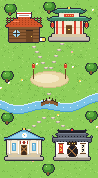
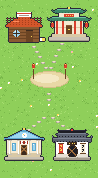
Zest Town: flowing river, trees in the wind, shorter signs, traditional characters, speech bubble on top
Claude-Session: https://claude.ai/code/session_01RoXuvLnNyq1kjKT87pkQTh

diff --git a/app.js b/app.js
@@ -1,10 +1,10 @@
-import { createClient } from "./vendor/supabase.js?v=53";
-import { FRUITS, HOST_AVATARS, SPECIAL_AVATARS, BACKGROUNDS, fruitSvg, fruitInfo, levelFor, progress, XP_SESSION, XP_STREAK, XP_BOOTCAMP } from "./fruits.js?v=53";
-import { COUNTRIES } from "./countries.js?v=53";
+import { createClient } from "./vendor/supabase.js?v=54";
+import { FRUITS, HOST_AVATARS, SPECIAL_AVATARS, BACKGROUNDS, fruitSvg, fruitInfo, levelFor, progress, XP_SESSION, XP_STREAK, XP_BOOTCAMP } from "./fruits.js?v=54";
+import { COUNTRIES } from "./countries.js?v=54";
 const XP_HONGBAO = 30;
 const MEMBER_CODE = "MZCLUB_8634D";                    // 50% off materials in the shop (Antoine, 24 Oct 2026)
 const SHOP_URL = "https://www.mandarinzest.com/shop";
-import { STICKERS, STICKER_PAGES, MYSTERY_STICKERS, stickerInfo, stickerSvg, stickerForBootcamp } from "./stickers.js?v=53";
+import { STICKERS, STICKER_PAGES, MYSTERY_STICKERS, stickerInfo, stickerSvg, stickerForBootcamp } from "./stickers.js?v=54";
 
 // ---------------------------------------------------------------------------
 // Setup
@@ -1288,7 +1288,7 @@ async function loadMap() {
   if (state.mapLoading) return;
   state.mapLoading = true;
   try {
-    const [m, cc] = await Promise.all([import("./worldmap.js?v=53"), sb.rpc("country_counts")]);
+    const [m, cc] = await Promise.all([import("./worldmap.js?v=54"), sb.rpc("country_counts")]);
     state.world = m.WORLD;
     state.countryCounts = new Map((cc.data || []).map((r) => [r.country, r.members]));
   } catch { state.world = "error"; }
@@ -1853,7 +1853,7 @@ async function downloadNotesPdf(sid) {
   if (!s || !n?.published_at) return;
   toast("Making your PDF…");
   try {
-    const { jsPDF, html2canvas } = await import("./vendor/pdf.js?v=53");
+    const { jsPDF, html2canvas } = await import("./vendor/pdf.js?v=54");
     const a = new Date(s.starts_at);
     const date = a.toLocaleDateString([], { weekday: "long", day: "numeric", month: "long", year: "numeric" });
     const vocab = (n.vocab || []).filter((v) => v.hanzi || v.pinyin || v.meaning);
@@ -2719,7 +2719,7 @@ document.addEventListener("focusout", hideTip);
 addEventListener("scroll", hideTip, { passive: true });
 addEventListener("hashchange", hideTip);
 
-if ("serviceWorker" in navigator) navigator.serviceWorker.register("sw.js?v=53").catch(() => {});
+if ("serviceWorker" in navigator) navigator.serviceWorker.register("sw.js?v=54").catch(() => {});
 
 // Escape closes the Idea box.
 document.addEventListener("keydown", (e) => {
@@ -2839,8 +2839,10 @@ document.addEventListener("focusout", (e) => { if (vsugg.input && e.target === v
 // ---------------------------------------------------------------------------
 const ZT_MAP = {
   phone: { w: 98, h: 178, tree: [28, 39], temple: [70, 26], house: [26, 30], library: [25, 146], callig: [73, 146], plaza: [49, 73],
+    river: [90, 28], bushes: [[4, 4], [85, 63], [1, 71], [43, 2], [85, 111], [1, 113], [42, 164]],
     hops: [[8, 58], [12, 76], [64, 80], [74, 60], [58, 86], [26, 86]] },
   wide: { w: 196, h: 180, tree: [77, 66], temple: [141, 36], house: [52, 41], library: [32, 108], callig: [164, 108], plaza: [98, 100],
+    river: [130, 28], bushes: [[8, 6], [175, 61], [1, 59], [91, 4], [167, 159], [21, 159], [59, 71], [127, 69]],
     hops: [[58, 94], [62, 116], [120, 116], [124, 94], [104, 124], [76, 124]] },
 };
 const ZT_STAGES = [ // [en, simplified, traditional, first day]
@@ -2850,7 +2852,7 @@ const ZT_STAGES = [ // [en, simplified, traditional, first day]
 ];
 const HSK_LEVELS = ["1", "2", "3", "4", "5", "6", "7-9"];
 const ZT_LEARNED = 3; // a word counts as learned after 3 good answers in a row, on different days
-const ZT_CHEERS = ["加油！", "你好！", "太棒了！", "我们走吧！", "好开心！", "学中文吧！"];
+const ZT_CHEERS = [["加油！", "加油！"], ["你好！", "你好！"], ["太棒了！", "太棒了！"], ["我们走吧！", "我們走吧！"], ["好开心！", "好開心！"], ["学中文吧！", "學中文吧！"]];
 const ZT_FLAME = '<svg viewBox="0 0 24 24" width="18" height="18" aria-hidden="true"><path d="M12 2c1 4 6 6 6 12a6 6 0 0 1-12 0c0-3 2-5 3-6 0 2 1 3 2 3 0-4-1-6 1-9z" fill="#f37a48"/><path d="M12 12c1 2 3 3 3 5a3 3 0 0 1-6 0c0-1.5 1-2.5 1.5-3 .2 1 .8 1.5 1.5 1.5 0-1.5-.5-2.5 0-3.5z" fill="#ffd95a"/></svg>';
 const ZT_DROP = '<svg viewBox="0 0 24 24" width="18" height="18" aria-hidden="true"><path d="M12 2.5C9 7 5.5 10.5 5.5 14.5a6.5 6.5 0 0 0 13 0C18.5 10.5 15 7 12 2.5z" fill="#4aa3df"/><path d="M9 14.5a3 3 0 0 0 3 3" stroke="#d6efff" stroke-width="1.8" fill="none" stroke-linecap="round"/></svg>';
 ICON.tree = '<svg viewBox="0 0 24 24" fill="none" stroke="currentColor" stroke-width="2" stroke-linecap="round" stroke-linejoin="round" aria-hidden="true"><circle cx="12" cy="9" r="6"/><path d="M12 15v7M8 22h8M10 10l2 2 2-3"/></svg>';
@@ -3078,7 +3080,7 @@ function learnView() {
 }
 function ztHeader(st, back) {
   const pills = st ? `<span class="ztpill flame ${st.wilted ? "off" : ""}" title="Streak">${ZT_FLAME}${st.wilted ? 0 : st.n}</span><span class="ztpill drop" title="Watering cans left this month">${ZT_DROP}${ztWaterLeft()}</span>` : "";
-  return `<header class="zthead">${back ? `<a class="ztback" href="#/learn">‹ Zest Town</a>` : `<div class="eyebrow">Learning Universe · 学习宇宙 <span class="betachip">BETA</span></div>`}
+  return `<header class="zthead">${back ? `<a class="ztback" href="#/learn">‹ Zest Town</a>` : `<div class="eyebrow">Learning Universe · ${trad() ? "學習宇宙" : "学习宇宙"} <span class="betachip">BETA</span></div>`}
     <div class="row between" style="align-items:center;gap:10px"><h1>${back || "Zest Town"}</h1><span class="row" style="gap:6px">${pills}</span></div></header>`;
 }
 function todayCard(st) {
@@ -3119,12 +3121,14 @@ function townMap(st) {
   const dueN = ztQueueAll().length, fruit = myFruitKey(), h0 = M.hops[0];
   return `<div class="ztmap ${k}" style="aspect-ratio:${M.w}/${M.h}">
     ${ztImg(`town-${k}`, "ztbg")}
+    <div class="ztriver" style="top:${pct(M.river[0], M.h)};height:${pct(M.river[1], M.h)}" aria-hidden="true"><img class="px" src="icons/zt/river-${k}.png" alt="" draggable="false"></div>
+    ${M.bushes.map(([x, y], i) => `<img class="px ztbush" src="icons/zt/bush.png" alt="" draggable="false" style="${at(x, y)};width:${pct(15, M.w)};animation-delay:-${(i * 0.7) % 3}s">`).join("")}
     <button type="button" class="zttreebtn" data-zt="sheet" style="${at(...M.tree)};width:${pct(42, M.w)}" aria-label="Your streak tree">${treeImg(st)}</button>
     ${st.wilted ? "" : `<button type="button" class="ztfruit" data-zt="cheer" style="${at(...h0)};width:${pct(18, M.w)}" aria-label="Your fruit"><span class="ztbubble" hidden></span>${ztImg("fruit-" + fruit)}</button>`}
-    <a class="ztlabel" href="#/learn/cards" style="${at(M.house[0], M.house[1] + 15)}">FLASHCARDS<span>字卡中心</span>${dueN ? `<em>${dueN} DUE</em>` : ""}</a>
-    <a class="ztlabel" href="#/learn/temple" style="${at(M.temple[0], M.temple[1] + 17)}">HSK TEMPLE<span>${trad() ? "漢語廟" : "汉语庙"}</span></a>
-    <button type="button" class="ztlabel soon" data-zt="soon" data-v="library" style="${at(M.library[0], M.library[1] + 15)}">LIBRARY<span>${trad() ? "圖書館" : "图书馆"}</span><em>OPEN SOON</em></button>
-    <button type="button" class="ztlabel soon" data-zt="soon" data-v="callig" style="${at(M.callig[0], M.callig[1] + 15)}">CALLIGRAPHY<span>${trad() ? "書法學校" : "书法学校"}</span><em>OPEN SOON</em></button>
+    <a class="ztlabel" href="#/learn/cards" style="${at(M.house[0], M.house[1] + 15)}" aria-label="Flashcard Center, ${dueN} due">FLASHCARDS${dueN ? `<em>${dueN}</em>` : ""}</a>
+    <a class="ztlabel" href="#/learn/temple" style="${at(M.temple[0], M.temple[1] + 17)}" aria-label="HSK Temple">HSK TEMPLE</a>
+    <button type="button" class="ztlabel soon" data-zt="soon" data-v="library" style="${at(M.library[0], M.library[1] + 15)}" aria-label="Library, opening soon">LIBRARY<em>SOON</em></button>
+    <button type="button" class="ztlabel soon" data-zt="soon" data-v="callig" style="${at(M.callig[0], M.callig[1] + 15)}" aria-label="Calligraphy School, opening soon">CALLIGRAPHY<em>SOON</em></button>
     <button type="button" class="ztlabel day ${st.wilted ? "dead" : ""}" data-zt="sheet" style="${at(M.plaza[0], M.plaza[1] + 11)}">${st.wilted ? "WILTED" : `DAY ${st.n}`}</button>
   </div>`;
 }
@@ -3292,7 +3296,7 @@ document.addEventListener("click", async (e) => {
   else if (a === "close") { L.sheet = null; render(); }
   else if (a === "cheer") {
     const b = el.querySelector(".ztbubble"); el.classList.add("talk");
-    b.textContent = ZT_CHEERS[Math.floor(Math.random() * ZT_CHEERS.length)]; b.hidden = false;
+    b.textContent = zh(ZT_CHEERS[Math.floor(Math.random() * ZT_CHEERS.length)]); b.hidden = false;
     setTimeout(() => { b.hidden = true; el.classList.remove("talk"); }, 1800);
   } else if (a === "water") {
     el.disabled = true;

diff --git a/styles.css b/styles.css
@@ -683,6 +683,8 @@ details.custom.sbdet > summary b { color: #6b4423; }
 .zttreebtn, .ztfruit { position: absolute; padding: 0; border: 0; background: none; cursor: pointer; }
 .zttreebtn:hover img { filter: brightness(1.06); }
 .ztfruit { transition: left 1.4s linear, top 1.4s linear; z-index: 2; }
+.ztfruit.talk { z-index: 20; }
+.ztbubble { z-index: 20; }
 .ztfruit img { transform-origin: 50% 100%; }
 .ztfruit.flip img { transform: scaleX(-1); }
 .ztfruit.hopping img { animation: zthop .35s ease-in-out infinite alternate; }
@@ -692,12 +694,21 @@ details.custom.sbdet > summary b { color: #6b4423; }
 @keyframes zthopflip { from { translate: 0 0; } to { translate: 0 -22%; } }
 @keyframes ztsquish { to { scale: 1.12 .88; } }
 .ztbubble { position: absolute; bottom: 105%; left: 50%; transform: translateX(-50%); background: #fff; border: 3px solid #2b2a3a; padding: 4px 8px; font-size: 13px; font-weight: 800; white-space: nowrap; font-family: "Noto Sans SC", sans-serif; }
-.ztlabel { position: absolute; transform: translateX(-50%); background: #2b2a3a; color: #fff; border: 2px solid #fff; outline: 2px solid #2b2a3a; padding: 3px 7px; text-align: center; white-space: nowrap; font: 700 10px/1.3 "Press Start 2P", ui-monospace, monospace; text-decoration: none; cursor: pointer; z-index: 3; }
-.ztlabel span { display: block; font: 700 11px/1.3 "Noto Sans SC", "Noto Sans TC", sans-serif; color: #ffd95a; }
-.ztlabel em { position: absolute; top: -14px; right: -16px; background: #f37a48; color: #fff; font: 700 8px "Press Start 2P", monospace; padding: 3px 4px; border: 2px solid #2b2a3a; font-style: normal; }
-.ztlabel.day { background: #2f6b22; padding: 4px 7px; font-size: 9px; }
+.ztlabel { position: absolute; transform: translateX(-50%); background: #2b2a3a; color: #fff; border: 2px solid #fff; outline: 2px solid #2b2a3a; padding: 3px 5px 2px; white-space: nowrap; font: 400 8px/1.2 "Press Start 2P", ui-monospace, monospace; text-decoration: none; cursor: pointer; z-index: 3; }
+.ztlabel em { position: absolute; top: -11px; right: -11px; min-width: 16px; height: 16px; display: grid; place-items: center; background: #f37a48; color: #fff; font: 400 7px "Press Start 2P", monospace; padding: 0 3px; border: 2px solid #2b2a3a; border-radius: 99px; font-style: normal; }
+.ztlabel.day { background: #2f6b22; }
 .ztlabel.day.dead { background: #6b5a4a; }
 .ztlabel:hover { color: #fff; filter: brightness(1.15); }
+.ztlabel.soon { background: #4a4655; color: #e9e2d0; }
+.ztlabel.soon em { background: #ffd95a; color: #5a3d00; border-radius: 3px; font-size: 6px; top: -10px; right: -14px; }
+.ztriver { position: absolute; left: 0; right: 0; overflow: hidden; pointer-events: none; }
+.ztriver img { width: 100%; height: 400%; animation: ztriver 1.2s steps(4) infinite; }
+@keyframes ztriver { to { transform: translateY(-100%); } }
+.ztbush { position: absolute; transform-origin: 50% 100%; animation: ztsway 3s ease-in-out infinite alternate; pointer-events: none; z-index: 1; }
+@keyframes ztsway { from { transform: skewX(-4deg); } to { transform: skewX(4deg); } }
+.zttreebtn { z-index: 1; }
+.zttreebtn img { transform-origin: 50% 92%; animation: ztsway2 3.4s ease-in-out infinite alternate; }
+@keyframes ztsway2 { from { transform: skewX(-2deg); } to { transform: skewX(2deg); } }
 .zttoday { display: flex; align-items: center; gap: 10px; background: #fff7ef; border: 1.5px solid #f6cfa9; border-radius: 18px; padding: 12px 14px; }
 .zttoday svg { width: 28px; height: 28px; flex: none; }
 .zttoday.done { background: var(--mint); border-color: #b9e3b9; }
@@ -806,10 +817,7 @@ details.custom.sbdet > summary b { color: #6b4423; }
 .ztst { align-self: flex-start; font-size: 12px; font-weight: 800; border-radius: 99px; padding: 3px 10px; }
 .ztst.learned { background: #2f7a25; color: #fff; } .ztst.seen { background: #d4efc9; color: #2d6b22; } .ztst.none { background: #eeeae6; color: #6f625a; }
 .ztwordsheet { position: fixed; left: 10px; right: 10px; bottom: calc(var(--nav-h) + 10px); z-index: 20; box-shadow: 0 10px 30px rgba(42,36,32,.25); border-radius: var(--radius); }
-@media (prefers-reduced-motion: reduce) { .ztfruit, .ztfruit img { transition: none; animation: none !important; } }
-.ztlabel.soon { background: #4a4655; }
-.ztlabel.soon span { color: #e9e2d0; }
-.ztlabel.soon em { position: static; display: block; margin-top: 3px; background: #ffd95a; color: #5a3d00; border: 0; font-size: 7px; padding: 2px 3px; }
+@media (prefers-reduced-motion: reduce) { .ztfruit, .ztfruit img, .ztriver img, .ztbush, .zttreebtn img { transition: none; animation: none !important; } }
 .ztplace.soon { opacity: .85; }
 .ztplace.soon .ztplaceart { background: #b8c9a8; }
 .ztsoon { flex: none; font-size: 12px; font-weight: 800; background: #ffd95a; color: #5a3d00; border-radius: 999px; padding: 5px 10px; }

diff --git a/index.html b/index.html
@@ -15,14 +15,14 @@
 <link rel="preconnect" href="https://fonts.googleapis.com">
 <link rel="preconnect" href="https://fonts.gstatic.com" crossorigin>
 <link href="https://fonts.googleapis.com/css2?family=Outfit:wght@400;500;600;700;800&family=Press+Start+2P&family=Noto+Sans+SC:wght@500;700&family=Noto+Sans+TC:wght@500;700&display=swap" rel="stylesheet">
-<link rel="stylesheet" href="styles.css?v=53">
+<link rel="stylesheet" href="styles.css?v=54">
 </head>
 <body>
 <div id="app" aria-live="polite">
   <div class="splash"><img src="icons/mascot.svg" alt="Mandarin Zest" width="200" height="200"></div>
 </div>
 <div id="toast" role="status" aria-live="polite"></div>
-<script type="module" src="app.js?v=53"></script>
+<script type="module" src="app.js?v=54"></script>
 <script>
   // Safety net: if the app hasn't started after 10 s (e.g. an old file stuck in the browser), offer a clean reload.
   setTimeout(function () {

diff --git a/sw.js b/sw.js
@@ -1,9 +1,9 @@
 // Keeps the app shell available offline, and shows Club notifications.
 // Data always comes from the network.
-const VERSION = "mz-club-v53";
+const VERSION = "mz-club-v54";
 const SHELL = [
-  "./", "index.html", "styles.css?v=53", "app.js?v=53", "fruits.js?v=53", "hosts-art.js?v=53", "countries.js?v=53", "stickers.js?v=53", "worldmap.js?v=53",
-  "vendor/supabase.js?v=53", "manifest.webmanifest", "icons/logo.png", "icons/mascot.svg", "icons/icon-192.png", "icons/badge-96.png",
+  "./", "index.html", "styles.css?v=54", "app.js?v=54", "fruits.js?v=54", "hosts-art.js?v=54", "countries.js?v=54", "stickers.js?v=54", "worldmap.js?v=54",
+  "vendor/supabase.js?v=54", "manifest.webmanifest", "icons/logo.png", "icons/mascot.svg", "icons/icon-192.png", "icons/badge-96.png",
 ];
 
 self.addEventListener("install", (e) => {

diff --git a/fruits.js b/fruits.js
@@ -1,4 +1,4 @@
-import { HOST_AVATARS, HOST_ART } from "./hosts-art.js?v=53";
+import { HOST_AVATARS, HOST_ART } from "./hosts-art.js?v=54";
 export { HOST_AVATARS };
 // Fruit avatars and the levels that unlock them (Antoine's table, 19 Oct 2026).
 // To change levels or XP later, edit LEVELS and the `level` of each fruit.
